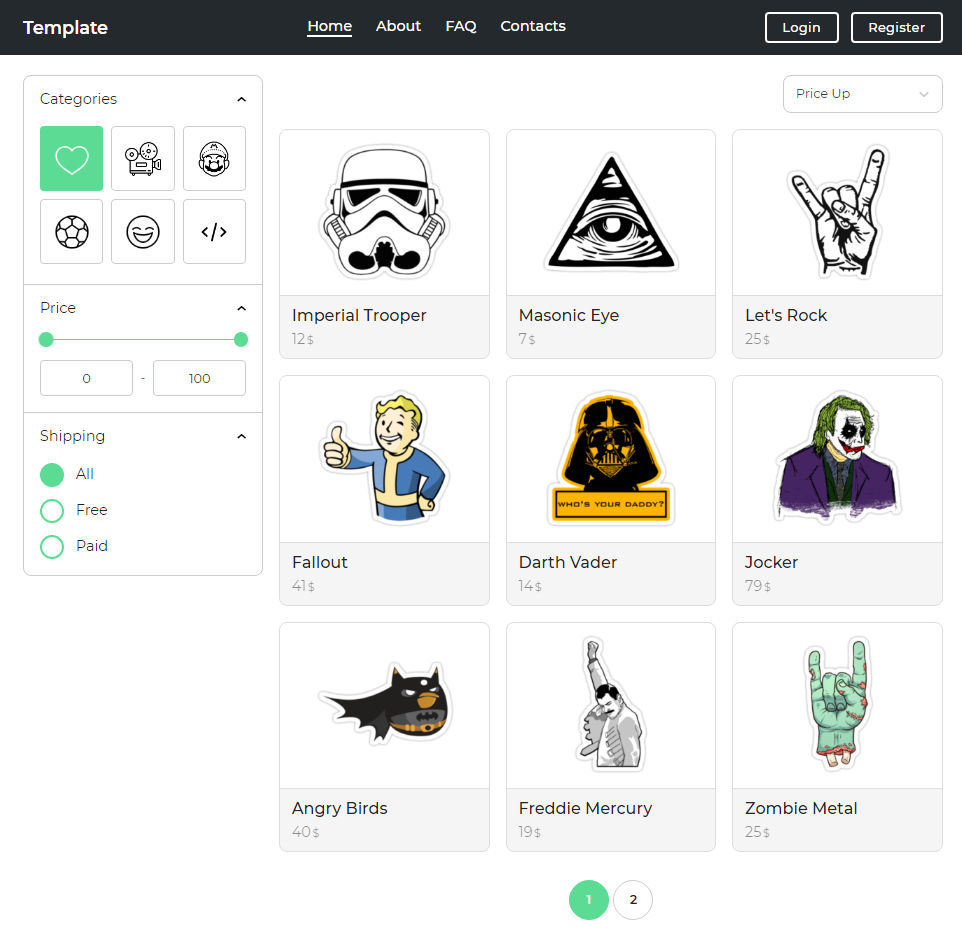
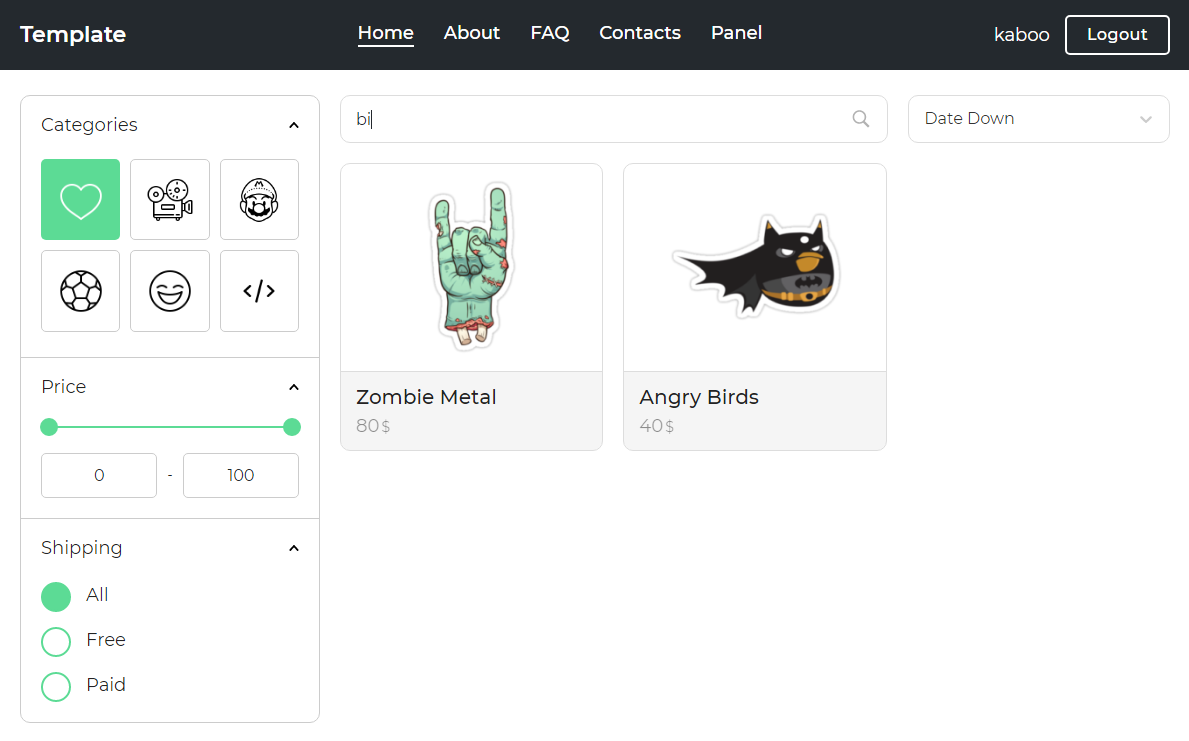
'first'

diff --git a/client/src/components/items.js b/client/src/components/items.js
@@ -11,16 +11,29 @@ import {SlectStyle, Options} from '../config/settings'
 
 class Items extends Component {
     state = {
-        sort: 0
+        sort: 0,
+        regexText: '',
     }
 
-    onChange = (val) => {
+    onSelectChange = (val) => {
         this.setState({
             sort: val.value
         }, () => {
             this
                 .props
-                .getItems(1, this.props.pagination.limit, ...this.props.filters, this.state.sort);
+                .getItems(1, this.props.pagination.limit, ...this.props.filters, this.state.sort,this.state.regexText);
+        })
+    }
+
+    onChange = (e) => {
+        const {value, name, type, checked} = e.target;
+
+        this.setState({
+            [name]: (type === 'checkbox')
+                ? checked
+                : value
+        },()=>{
+            this.props.getItems(1,this.props.pagination.limit,...this.props.filters,this.props.sort,this.state.regexText)
         })
     }
 
@@ -31,19 +44,23 @@ class Items extends Component {
     }
 
     render() {
-        const {isLoading, items, pagination, filters, sort} = this.props;
+        const {isLoading, items, pagination, filters, sort, regex} = this.props;
 
         return (
             <div className="items-section">
 
                 <div className="flex-wrap">
-                    <Side getItems={this.props.getItems} pagination={pagination} sort={sort}/>
+                    <Side getItems={this.props.getItems} pagination={pagination} sort={sort} regex={regex}/>
 
                     <div className="products-side-wrap">
                             <div className="select-wrap">
+                                <div className="simple-input search-input">
+                                    <input type="text" name="regexText" value={this.state.regexText} onChange={this.onChange} placeholder="Search..."/>
+                                </div>
+
                                 <Select
                                     options={Options}
-                                    onChange={this.onChange}
+                                    onChange={this.onSelectChange}
                                     defaultValue={Options[0]}
                                     label="Sorting"
                                     isSearchable={false}
@@ -71,6 +88,7 @@ class Items extends Component {
                                                             getItems={this.props.getItems}
                                                             pagination={pagination}
                                                             filters={filters}
+                                                            regex={regex}
                                                             sort={sort}/>
                                                     </div>
                                                 )}
@@ -96,6 +114,7 @@ const mapStateToProps = (state) => ({
     pagination: state.items.pagination,
     filters: state.items.filters,
     sort: state.items.sort,
+    regex: state.items.regex,
     items: state.items.items,
     isAuth: state.auth.isAuthenticated,
     isLoading: state.items.isLoading

diff --git a/client/src/components/pagination.js b/client/src/components/pagination.js
@@ -6,6 +6,7 @@ class Pagination extends Component {
         const pagination = this.props.pagination
         const filters = this.props.filters
         const sort = this.props.sort
+        const regex = this.props.regex
         let paginationElemnt = [];
         let paginationInnerElement = [];
         let isBackDots = false;
@@ -42,7 +43,7 @@ class Pagination extends Component {
                     onClick={() => {
                     this
                         .props
-                        .getItems(x + 1, pagination.limit,...filters,sort)
+                        .getItems(x + 1, pagination.limit,...filters,sort,regex)
                 }}
                     className={`pag-item${ (pagination.currentPage !== x + 1)
                     ? ''
@@ -58,7 +59,7 @@ class Pagination extends Component {
                 {(pagination.pagesCount > 4) && (
                     <li
                         key={-3}
-                        onClick={() => (pagination.currentPage > 1) && this.props.getItems(pagination.prev.page, pagination.limit,...filters,sort)}
+                        onClick={() => (pagination.currentPage > 1) && this.props.getItems(pagination.prev.page, pagination.limit,...filters,sort,regex)}
                         className={`pag-prev${ (pagination.currentPage > 1)
                         ? ''
                         : ' unactive'}`}>
@@ -71,7 +72,7 @@ class Pagination extends Component {
                 {(pagination.pagesCount > 4) && (
                     <li
                         key={-4}
-                        onClick={() => (pagination.currentPage < pagination.pagesCount) && this.props.getItems(pagination.next.page, pagination.limit,...filters,sort)}
+                        onClick={() => (pagination.currentPage < pagination.pagesCount) && this.props.getItems(pagination.next.page, pagination.limit,...filters,sort,regex)}
                         className={`pag-next${ (pagination.currentPage < pagination.pagesCount)
                         ? ''
                         : ' unactive'}`}>

diff --git a/client/src/components/sidebar.js b/client/src/components/sidebar.js
@@ -23,7 +23,7 @@ class Side extends Component {
                 ? checked
                 : value
         },()=>{
-            this.props.getItems(1,this.props.pagination.limit,this.state.category,this.state.rangeStart,this.state.rangeEnd,this.state.shipping,this.props.sort)
+            this.props.getItems(1,this.props.pagination.limit,this.state.category,this.state.rangeStart,this.state.rangeEnd,this.state.shipping,this.props.sort,this.props.regex)
         })
     }
 
@@ -35,7 +35,7 @@ class Side extends Component {
             if(!this.state.isPricing){
                 this.setState({isPricing:true},()=>{
                     setTimeout(()=>{
-                        this.props.getItems(1,this.props.pagination.limit,this.state.category,this.state.rangeStart,this.state.rangeEnd,this.state.shipping,this.props.sort)
+                        this.props.getItems(1,this.props.pagination.limit,this.state.category,this.state.rangeStart,this.state.rangeEnd,this.state.shipping,this.props.sort,this.props.regex)
                         this.setState({isPricing:false})
                     },400)
                 })

diff --git a/client/src/App.css b/client/src/App.css
@@ -954,10 +954,6 @@ textarea:focus::placeholder {
   height: 100%;
 }
 
-.react-select__option{
-  display: none !important;
-}
-
 
 
 
@@ -966,12 +962,12 @@ textarea:focus::placeholder {
 
 .select-wrap{
   display: flex;
-  justify-content: flex-end;
+  justify-content: space-between;
+  margin-bottom: 20px;
 }
 
 .css-2b097c-container{
-  margin-bottom: 20px;
-  max-width: 200px;
+  max-width: calc(33.3333333% - 15px);
   width: 100%;
 }
 
@@ -993,6 +989,33 @@ textarea:focus::placeholder {
 
 .css-tlfecz-indicatorContainer{
   padding-right: 13px !important;
+}
+
+.search-input{
+  margin-bottom: 0;
+  margin-right: 20px;
+  position: relative;
+}
+
+.search-input:after{
+  content:'';
+  position: absolute;
+  width: 20px;
+  height: 20px;
+  right:17px;
+  top:50%;
+  transform: translateY(-50%);
+  background: url(img/search.svg) no-repeat center;
+  background-size: cover;
+  opacity: .3;
+}
+
+.search-input input{
+  border-radius: 10px;
+padding: 5px 15px;
+  height: 100%;
+  border-color: #ddd;
+  padding-right: 45px;
 }
 
 

diff --git a/client/src/actions/itemActions.js b/client/src/actions/itemActions.js
@@ -10,10 +10,10 @@ import {returnErrors} from './errorActions';
 import {tokenConfig} from './authActions';
 import axios from 'axios';
 
-export const getItems = (page, limit, category=0, from=0, to=1000000, ship=0, sort=1) => dispatch => {
+export const getItems = (page, limit, category=0, from=0, to=1000000, ship=0, sort=1, regex='') => dispatch => {
     dispatch(setItemsLoading());
     axios
-        .get(`/item?page=${page}&limit=${limit}&category=${category}&from=${from}&to=${to}&ship=${ship}&sort=${sort}`)
+        .get(`/item?page=${page}&limit=${limit}&category=${category}&from=${from}&to=${to}&ship=${ship}&sort=${sort}&regex=${regex}`)
         .then(res => {
             setTimeout(() => {
                 dispatch({type: GET_ITEMS, payload: res.data})

diff --git a/middleware/pagination.js b/middleware/pagination.js
@@ -31,6 +31,7 @@ const pagination = (model) => async(req, res, next) => {
 
 
 
+
     //Sort
     const sortVal = parseInt(req.query.sort);
     results.sort = sortVal;
@@ -41,6 +42,23 @@ const pagination = (model) => async(req, res, next) => {
     if(sortVal === 2) sort = {price:-1}
     if(sortVal === 3) sort = {createdAt:1}
     if(sortVal === 4) sort = {createdAt:-1}
+
+
+
+
+
+
+
+
+
+
+    //Search
+    const regex = req.query.regex
+
+    results.regex = regex;
+
+    match.title = new RegExp(regex,"i");
+
 
 
 
@@ -74,11 +92,6 @@ const pagination = (model) => async(req, res, next) => {
             limit: limit
         }
     
-
-
-
-
-    //Sorting
 
 
 

diff --git a/client/src/reducers/itemReducer.js b/client/src/reducers/itemReducer.js
@@ -13,6 +13,7 @@ const initialState = {
     pagination: {},
     filters: [],
     sort: 0,
+    regex:'',
     isLoading: true
 }
 
@@ -25,6 +26,7 @@ export default function (state = initialState, action) {
                 pagination: action.payload.pagination,
                 filters: action.payload.filters,
                 sort: action.payload.sort,
+                regex: action.payload.regex,
                 isLoading: false
             }
 

diff --git a/client/src/config/settings.js b/client/src/config/settings.js
@@ -2,7 +2,7 @@ export const SlectStyle  = {
     control: (styles, {data, isDisabled, isFocused, isSelected}) => {
         return {
             ...styles,
-            border: "1px solid #ccc !important",
+            border: "1px solid #ddd !important",
             boxShadow:"none !important",
             borderRadius:"10px",
             cursor:"pointer !important"

diff --git a/README.md b/README.md
@@ -2,7 +2,7 @@
     <img src="https://img.icons8.com/bubbles/100/000000/rocket.png" width="100" height="100">
 </p>
 
-<h1 align="center">MERN Filter + Sort</h1>
+<h1 align="center">MERN Searching</h1>
 
 [![Forks][forks-shield]][forks-url]
 [![Issues][issues-shield]][issues-url]
@@ -52,9 +52,9 @@
 
 
 
-[forks-shield]: https://img.shields.io/github/forks/kaboobear/MERN-Filter-Sort?style=flat-square
-[forks-url]: https://github.com/kaboobear/MERN-Filter-Sort/network/members
-[issues-shield]: https://img.shields.io/github/issues/kaboobear/MERN-Filter-Sort.svg?style=flat-square
-[issues-url]: https://github.com/kaboobear/MERN-Filter-Sort/issues
-[license-shield]: https://img.shields.io/github/license/kaboobear/MERN-Filter-Sort.svg?style=flat-square
-[license-url]: https://github.com/kaboobear/MERN-Filter-Sort/blob/master/LICENSE.txt
+[forks-shield]: https://img.shields.io/github/forks/kaboobear/MERN-Search?style=flat-square
+[forks-url]: https://github.com/kaboobear/MERN-Search/network/members
+[issues-shield]: https://img.shields.io/github/issues/kaboobear/MERN-Search.svg?style=flat-square
+[issues-url]: https://github.com/kaboobear/MERN-Search/issues
+[license-shield]: https://img.shields.io/github/license/kaboobear/MERN-Search.svg?style=flat-square
+[license-url]: https://github.com/kaboobear/MERN-Search/blob/master/LICENSE.txt
